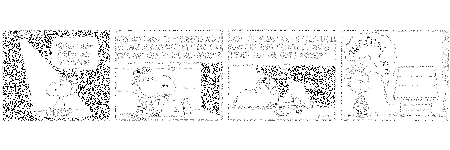
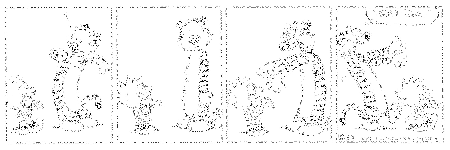
made generator more complex, appears to be learning except it goes dark probably when the discriminmator gets too good

diff --git a/cartoons/cartoon_generator.py b/cartoons/cartoon_generator.py
@@ -21,7 +21,7 @@ from keras import backend as K
 from keras.engine.topology import Layer
 from keras.utils import Sequence
 from keras.models import Model
-from keras.layers import Multiply, Input, Conv2D, Conv2DTranspose, MaxPooling2D, UpSampling2D, Dense, Flatten, Activation, Reshape, BatchNormalization, LeakyReLU, PReLU
+from keras.layers import Multiply, Input, Conv2D, Conv3D, Conv2DTranspose, Conv3DTranspose, MaxPooling2D, MaxPooling3D, UpSampling2D, Dense, Flatten, Activation, Reshape, BatchNormalization, LeakyReLU, PReLU
 from keras.optimizers import RMSprop, Adam
 from keras.callbacks import LambdaCallback
 from keras.callbacks import ModelCheckpoint
@@ -259,11 +259,14 @@ class PixelCNN(Conv2D):
 
 
 input = Input(shape=(150, 450, 1), name='z_sampling')
-layer = PixelCNN(1, 7, strides=1, mask_current=True, padding='same')(input)
+layer = PixelCNN(8, 7, strides=1, mask_current=True, padding='same')(input)
 layer = PReLU()(layer)
-layer = Conv2D(1, 7, strides=1, padding='same')(layer)
+layer = Conv2D(8, 7, strides=1, padding='same')(layer)
 layer = PReLU()(layer)
-layer = Conv2D(1, 7, strides=1, padding='same')(layer)
+print(layer.shape)
+layer = Reshape((150, 450, 8, 1))(layer)
+layer = MaxPooling3D(pool_size=(1,1,8))(layer)
+layer = Reshape((150, 450, 1))(layer)
 output = PReLU()(layer)
 
 generator = Model(input, output, name='generator')
